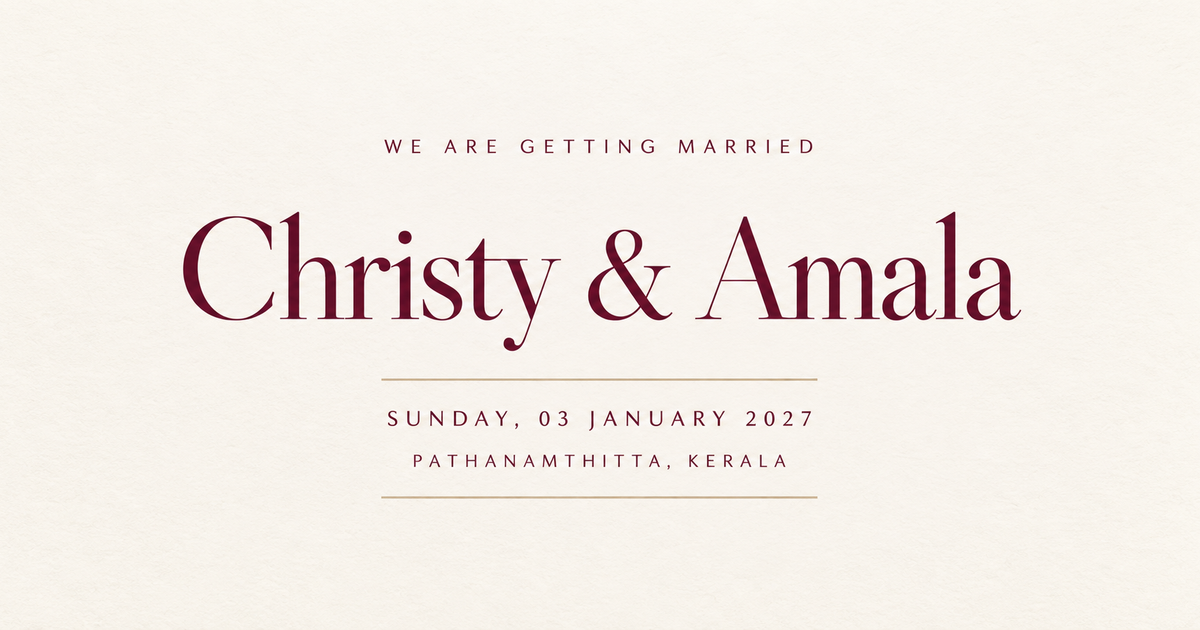
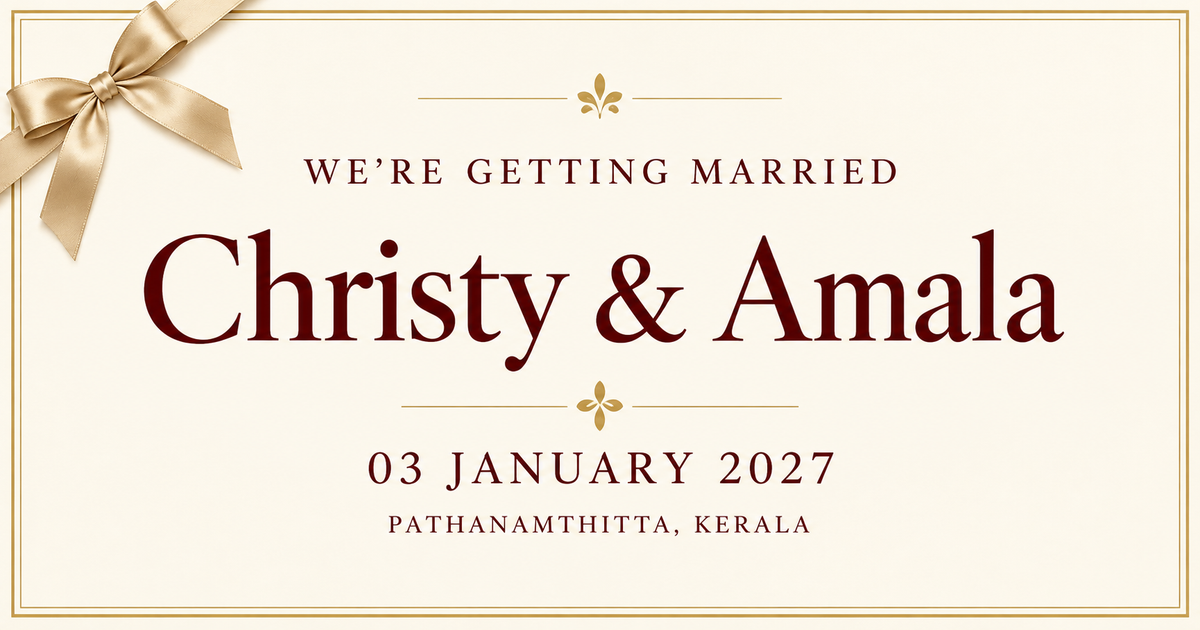
Refine mobile invitation layout and refresh sharing artwork

diff --git a/src/app/globals.css b/src/app/globals.css
@@ -247,3 +247,86 @@ h2 em { color:var(--burgundy); font-weight:400; }
   [data-reveal]>* { opacity:1!important;transform:none!important;clip-path:none!important; }
   .rsvp-button,.contact-list a,.bottom-nav>a[href="#rsvp"] { transition:none;transform:none!important; }
 }
+/* Responsive refinement: keep the invitation proportional and readable on phones. */
+html { background:var(--ivory); -webkit-text-size-adjust:100%; }
+figcaption { flex-wrap:wrap;gap:8px 16px; }
+.gate-content { min-height:100svh; padding:28px max(22px,env(safe-area-inset-right)) 28px max(22px,env(safe-area-inset-left)); gap:24px; }
+.gate-prelude,.gate-location { position:static; }
+.gate-prelude { font-size:20px;line-height:1.4; }
+.gate-location { font-size:12px;letter-spacing:.12em; }
+@media(max-width:760px) {
+  .gate-content { padding-top:max(22px,env(safe-area-inset-top));padding-bottom:max(22px,env(safe-area-inset-bottom));gap:22px; }
+  .gate-prelude { font-size:18px; }
+  .ribbon-card { width:min(400px,calc(100vw - 44px),max(270px,calc((100svh - 150px) / 1.45)));aspect-ratio:1/1.45;flex-shrink:0; }
+  .ribbon-card::before { inset:10px; }
+  .ribbon-card-heading { top:9%;left:7%;right:7%; }
+  .gate-kicker { font-size:12px;letter-spacing:.14em;margin-bottom:5cqw; }
+  .ribbon-card h2 { font-size:clamp(58px,20cqw,80px);line-height:.86; }
+  .ribbon-card h2 i { margin:1.2cqw 0 1.6cqw; }
+  .ribbon-wrap { top:63%;width:106%; }
+  .ribbon-button { top:auto;bottom:10%;left:7%;width:86%;height:48px; }
+  .ribbon-hint { position:static;font-size:14px;line-height:1.45;letter-spacing:0;gap:10px; }
+  .ribbon-hint>span { font-size:23px;flex-shrink:0; }
+  .gate-date { bottom:4%;font-size:12px;letter-spacing:.07em; }
+  .masthead { padding:12px 6%; }
+  .header-date { font-size:12px;letter-spacing:.08em; }
+  .hero { padding:34px 7% 50px;gap:36px; }
+  .hero-copy { padding:0; }
+  .hero-kicker { font-size:12px;letter-spacing:.14em;margin-bottom:22px; }
+  h1 { font-size:clamp(64px,20vw,92px);margin-bottom:22px; }
+  .invitation-line { font-size:16px;line-height:1.75;max-width:30ch;margin:24px auto 20px; }
+  .hero-date { font-size:14px;gap:6px; }
+  .hero-date>span:first-child { font-size:13px;letter-spacing:.025em; }
+  .discover { font-size:14px;margin-top:18px;gap:18px; }
+  .hero-portrait { max-width:420px;padding:0 4px; }
+  .portrait-frame { outline-offset:7px; }
+  figcaption { margin-top:22px;gap:6px 12px; }
+  figcaption>span:first-child { font-size:22px; }
+  figcaption>span:last-child { font-size:12px;letter-spacing:.04em; }
+  .section { padding:56px 7%; }
+  h2,.anticipation h2,.closing h2,.rsvp-intro h2 { font-size:clamp(34px,8.8vw,44px);line-height:1.14;text-wrap:balance; }
+  .eyebrow,.section>.eyebrow { font-size:12px;letter-spacing:.14em; }
+  .family-grid { gap:30px; }
+  .family-grid h3 { font-size:clamp(38px,10vw,48px);margin:12px 0 18px; }
+  .family-grid p { line-height:1.7; }
+  .family-address { font-size:14px; }
+  .family-grid>article+article { padding-top:30px; }
+  .scripture { padding:38px 7% 42px; }
+  .scripture blockquote p { font-size:clamp(26px,7.2vw,32px);line-height:1.35; }
+  .scripture cite { font-size:12px;letter-spacing:.08em; }
+  .celebration { padding:52px 7% 36px; }
+  .event { gap:18px;padding:28px 0; }
+  .event-name,.event-details { padding-left:26px; }
+  .event h3 { font-size:clamp(30px,8vw,37px); }
+  .event-date,.celebration-date { font-size:14px; }
+  .event-actions { gap:12px 18px; }
+  .text-action,.calendar-action,.calendar-both { font-size:14px; }
+  .calendar-both a { gap:12px; }
+  .countdown { gap:5px; }
+  .countdown-value { font-size:clamp(38px,11vw,54px); }
+  .countdown-unit { font-size:12px;letter-spacing:.03em; }
+  .countdown-date { font-size:13px;line-height:1.7; }
+  .rsvp { padding:48px 5%; }
+  .rsvp-layout { gap:25px; }
+  .rsvp-intro>p:not(.eyebrow):not(.rsvp-signature) { font-size:16px;line-height:1.75; }
+  .rsvp-card { padding:24px clamp(16px,5vw,24px); }
+  .attendance-options { grid-template-columns:1fr; }
+  .rsvp-form .attendance-choice { min-height:66px;padding:13px 14px;align-items:center; }
+  .choice-copy { flex-direction:column;gap:3px; }
+  .rsvp-note { font-size:13px; }
+  .closing { padding:45px 7%; }
+  .closing-names { font-size:clamp(34px,9.5vw,43px);text-wrap:balance; }
+  .closing-date { font-size:12px;letter-spacing:.08em; }
+  .wedding-contact h2 { font-size:32px; }
+  .contact-name { font-size:15px; }
+  .footer { font-size:12px;letter-spacing:0;gap:8px 16px;flex-wrap:wrap;padding:18px 6%; }
+  .bottom-nav { display:grid;grid-template-columns:repeat(4,minmax(0,1fr));gap:0;padding:0 max(6px,env(safe-area-inset-right)) env(safe-area-inset-bottom) max(6px,env(safe-area-inset-left));min-height:62px; }
+  .bottom-nav>a,.music-control { justify-content:center;min-width:0;min-height:62px;padding:8px 4px;font-size:13px;line-height:1.3; }
+  .music-control { max-width:none;gap:4px; }
+  .music-label { max-width:none;overflow-wrap:anywhere; }
+  .music-bars { width:12px;gap:2px; }
+}
+@media(max-height:560px) and (orientation:landscape) {
+  .gate-content { padding-block:20px;gap:18px; }
+  .ribbon-card { width:300px;aspect-ratio:1/1.45; }
+}

diff --git a/src/app/layout.tsx b/src/app/layout.tsx
@@ -15,9 +15,9 @@ export const metadata: Metadata = {
   openGraph: {
     type: "website", locale: "en_IN", title: `${wedding.couple.names} · We're getting married`,
     description: `${wedding.date} · ${wedding.place}. Join us in celebrating our wedding.`,
-    ...(wedding.siteUrl ? { url: wedding.siteUrl, images: [{ url: `${wedding.siteUrl}/og.png`, width: 1200, height: 630, alt: `${wedding.couple.names} — ${wedding.date}` }] } : {}),
+    ...(wedding.siteUrl ? { url: wedding.siteUrl, images: [{ url: `${wedding.siteUrl}/whatsapp-preview.jpg`, width: 1200, height: 630, type: "image/jpeg", alt: `${wedding.couple.names} — ${wedding.date}` }] } : {}),
   },
-  twitter: { card: "summary_large_image", title: `${wedding.couple.names} · Our Wedding`, description: `${wedding.date} · ${wedding.place}`, ...(wedding.siteUrl ? { images: [`${wedding.siteUrl}/og.png`] } : {}) },
+  twitter: { card: "summary_large_image", title: `${wedding.couple.names} · Our Wedding`, description: `${wedding.date} · ${wedding.place}`, ...(wedding.siteUrl ? { images: [`${wedding.siteUrl}/whatsapp-preview.jpg`] } : {}) },
   icons: { icon: "/icon.svg", apple: "/apple-touch-icon.png" },
 };
 

diff --git a/src/components/experience.tsx b/src/components/experience.tsx
@@ -111,7 +111,7 @@ export function Experience() {
       <a href="#rsvp">RSVP</a>
       <button className="music-control" onClick={() => { if (status === "unavailable") { setHint(!hint); } else audio.current?.toggle(); }} aria-label={status === "playing" ? "Pause music" : label} aria-pressed={status === "playing"} aria-describedby={hint ? "music-hint" : undefined}>
         <span className={`music-bars ${status === "playing" ? "is-playing" : ""}`} aria-hidden="true"><i/><i/><i/><i/></span>
-        <span className="music-label">{status === "unavailable" ? "Music off" : label}</span>
+        <span className="music-label">{status === "playing" ? "Music on" : status === "loading" ? "Loading…" : "Music off"}</span>
       </button>
       {hint && <p id="music-hint" className="music-hint" role="status">Music isn’t available just yet.</p>}
     </nav>

diff --git a/QA.md b/QA.md
@@ -99,3 +99,9 @@ Removed the falling petals and the decorative C&A interlude at the user's reques
 - Replaced the attendance dropdown with native required radio cards, retaining keyboard controls and an explicit selected state. Acceptance reveals the required guest count (default/minimum 1); declining hides it and keeps the existing zero-guest payload behavior.
 - Preserved name/contact/note fields, the Apps Script endpoint, busy guard, confirmed-save requirement, retained values on failure, and no automatic retries. Restyled the confirmation state and added a call link to the existing uncertain-save message.
 - Production build, TypeScript and all 12 existing tests passed. Browser inspected 1440 × 1000 and 390 × 844; mobile has no horizontal overflow. Verified accepting, keyboard-switching to decline, and guest-count visibility. Empty-name submission was blocked by native validation with focus on the name field; no live RSVP was sent. Browser console contained no errors.
+
+## Mobile refinement — 14 September 2026
+
+Adjusted opening card sizing to viewport height, kept peripheral text in normal flow, enlarged mobile labels, balanced section spacing and headings, stacked RSVP choices, and equalized bottom navigation. Browser checked at 320×568, 360×640, 390×844, 430×932, 844×390 and 1440×1000: no horizontal overflow in measured headings, controls or page. Visually inspected opening at 320/390/430, RSVP at 320 and venues at 390. Opening works in portrait and short landscape; short landscape scrolls vertically. No live RSVP submitted. Physical devices and OS text enlargement not tested. Production build and TypeScript passed.
+
+New generated sharing artwork is 1200×630 JPEG, 79,362 bytes. OG and Twitter metadata use the public Vercel URL and new image filename. PNG fallback refreshed. Changes require Git push and Vercel deployment before public guests see them.

diff --git a/ASSETS.md b/ASSETS.md
@@ -14,3 +14,7 @@ The full image-generation prompts are recorded in `imagegen-attribution.json`.
 - `public/images/satin-ribbon.webp`: generated with built-in imagegen for the modern ribbon entrance; 1400 × 933 WebP, 168 KB, with transparency. The three visible ribbon pieces use the same artwork with complementary clips, animated using Motion.
 
 - `public/images/love-petal.webp`: one blush rose petal created with built-in imagegen, optimized to a 96 × 96 transparent WebP (3.7 KB), retained as an unused historical asset; the petal feature has been removed. Full prompt in `imagegen-attribution.json`.
+
+## Ribbon social preview — 14 September 2026
+
+`public/whatsapp-preview.jpg` (1200×630, 79,362 bytes) and `public/og.png`: generated with built-in image_gen, then resized and encoded with Sharp. Ivory stationery, champagne ribbon and burgundy names. One candidate, visually verified spelling/date. Full prompt and mode are recorded in `imagegen-attribution.json`.
